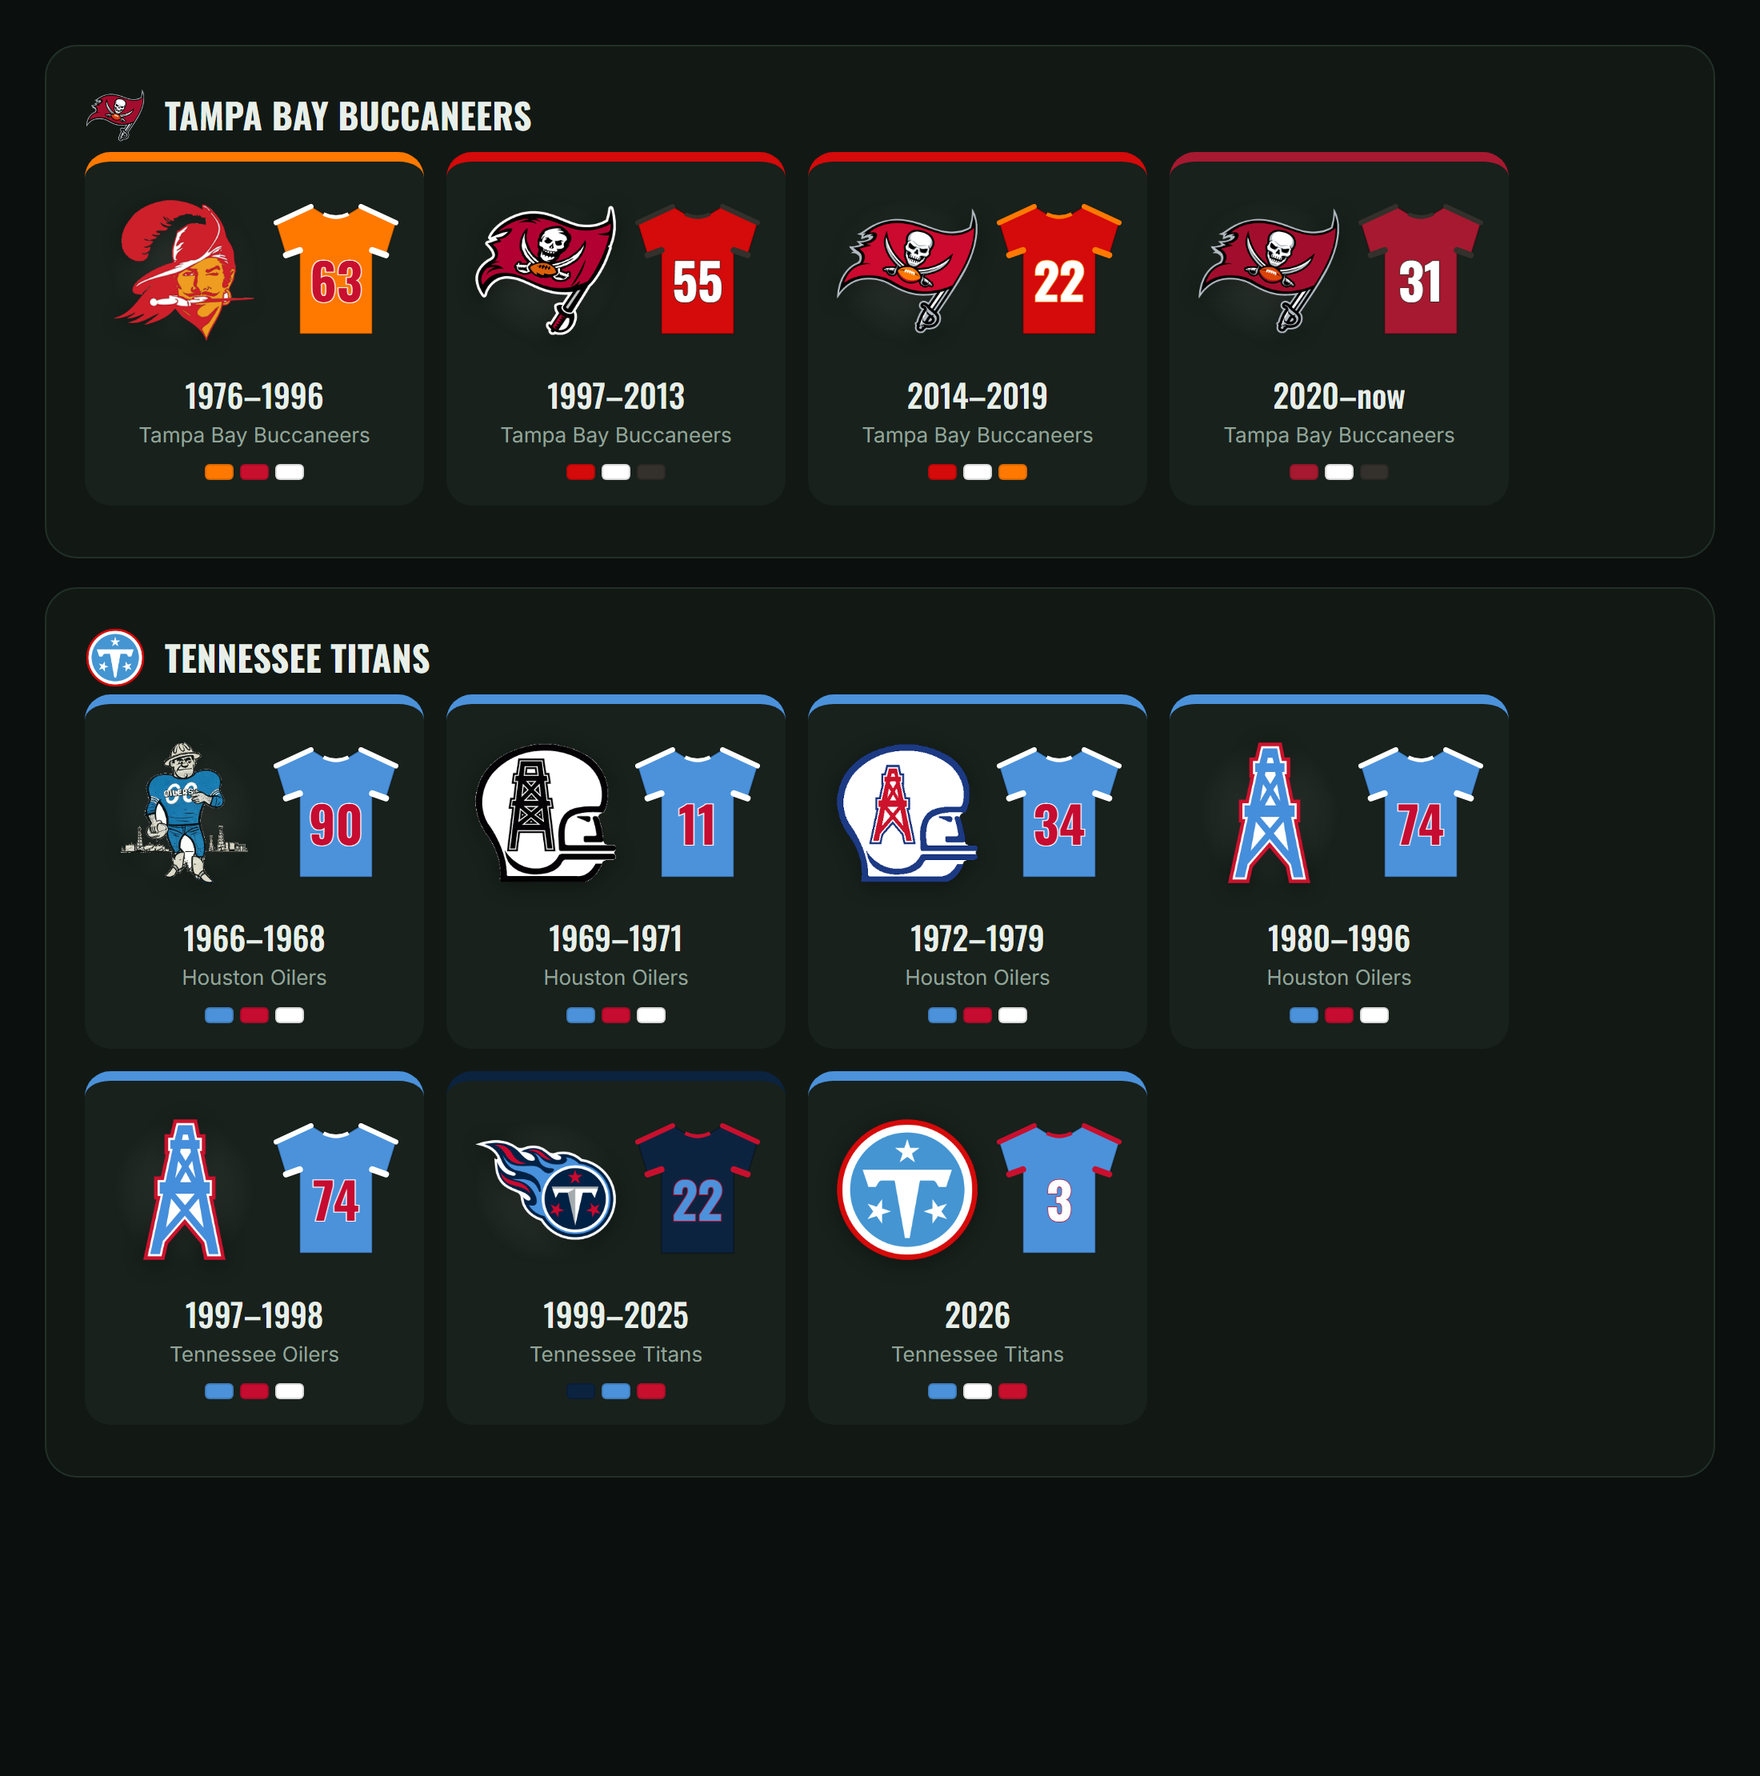
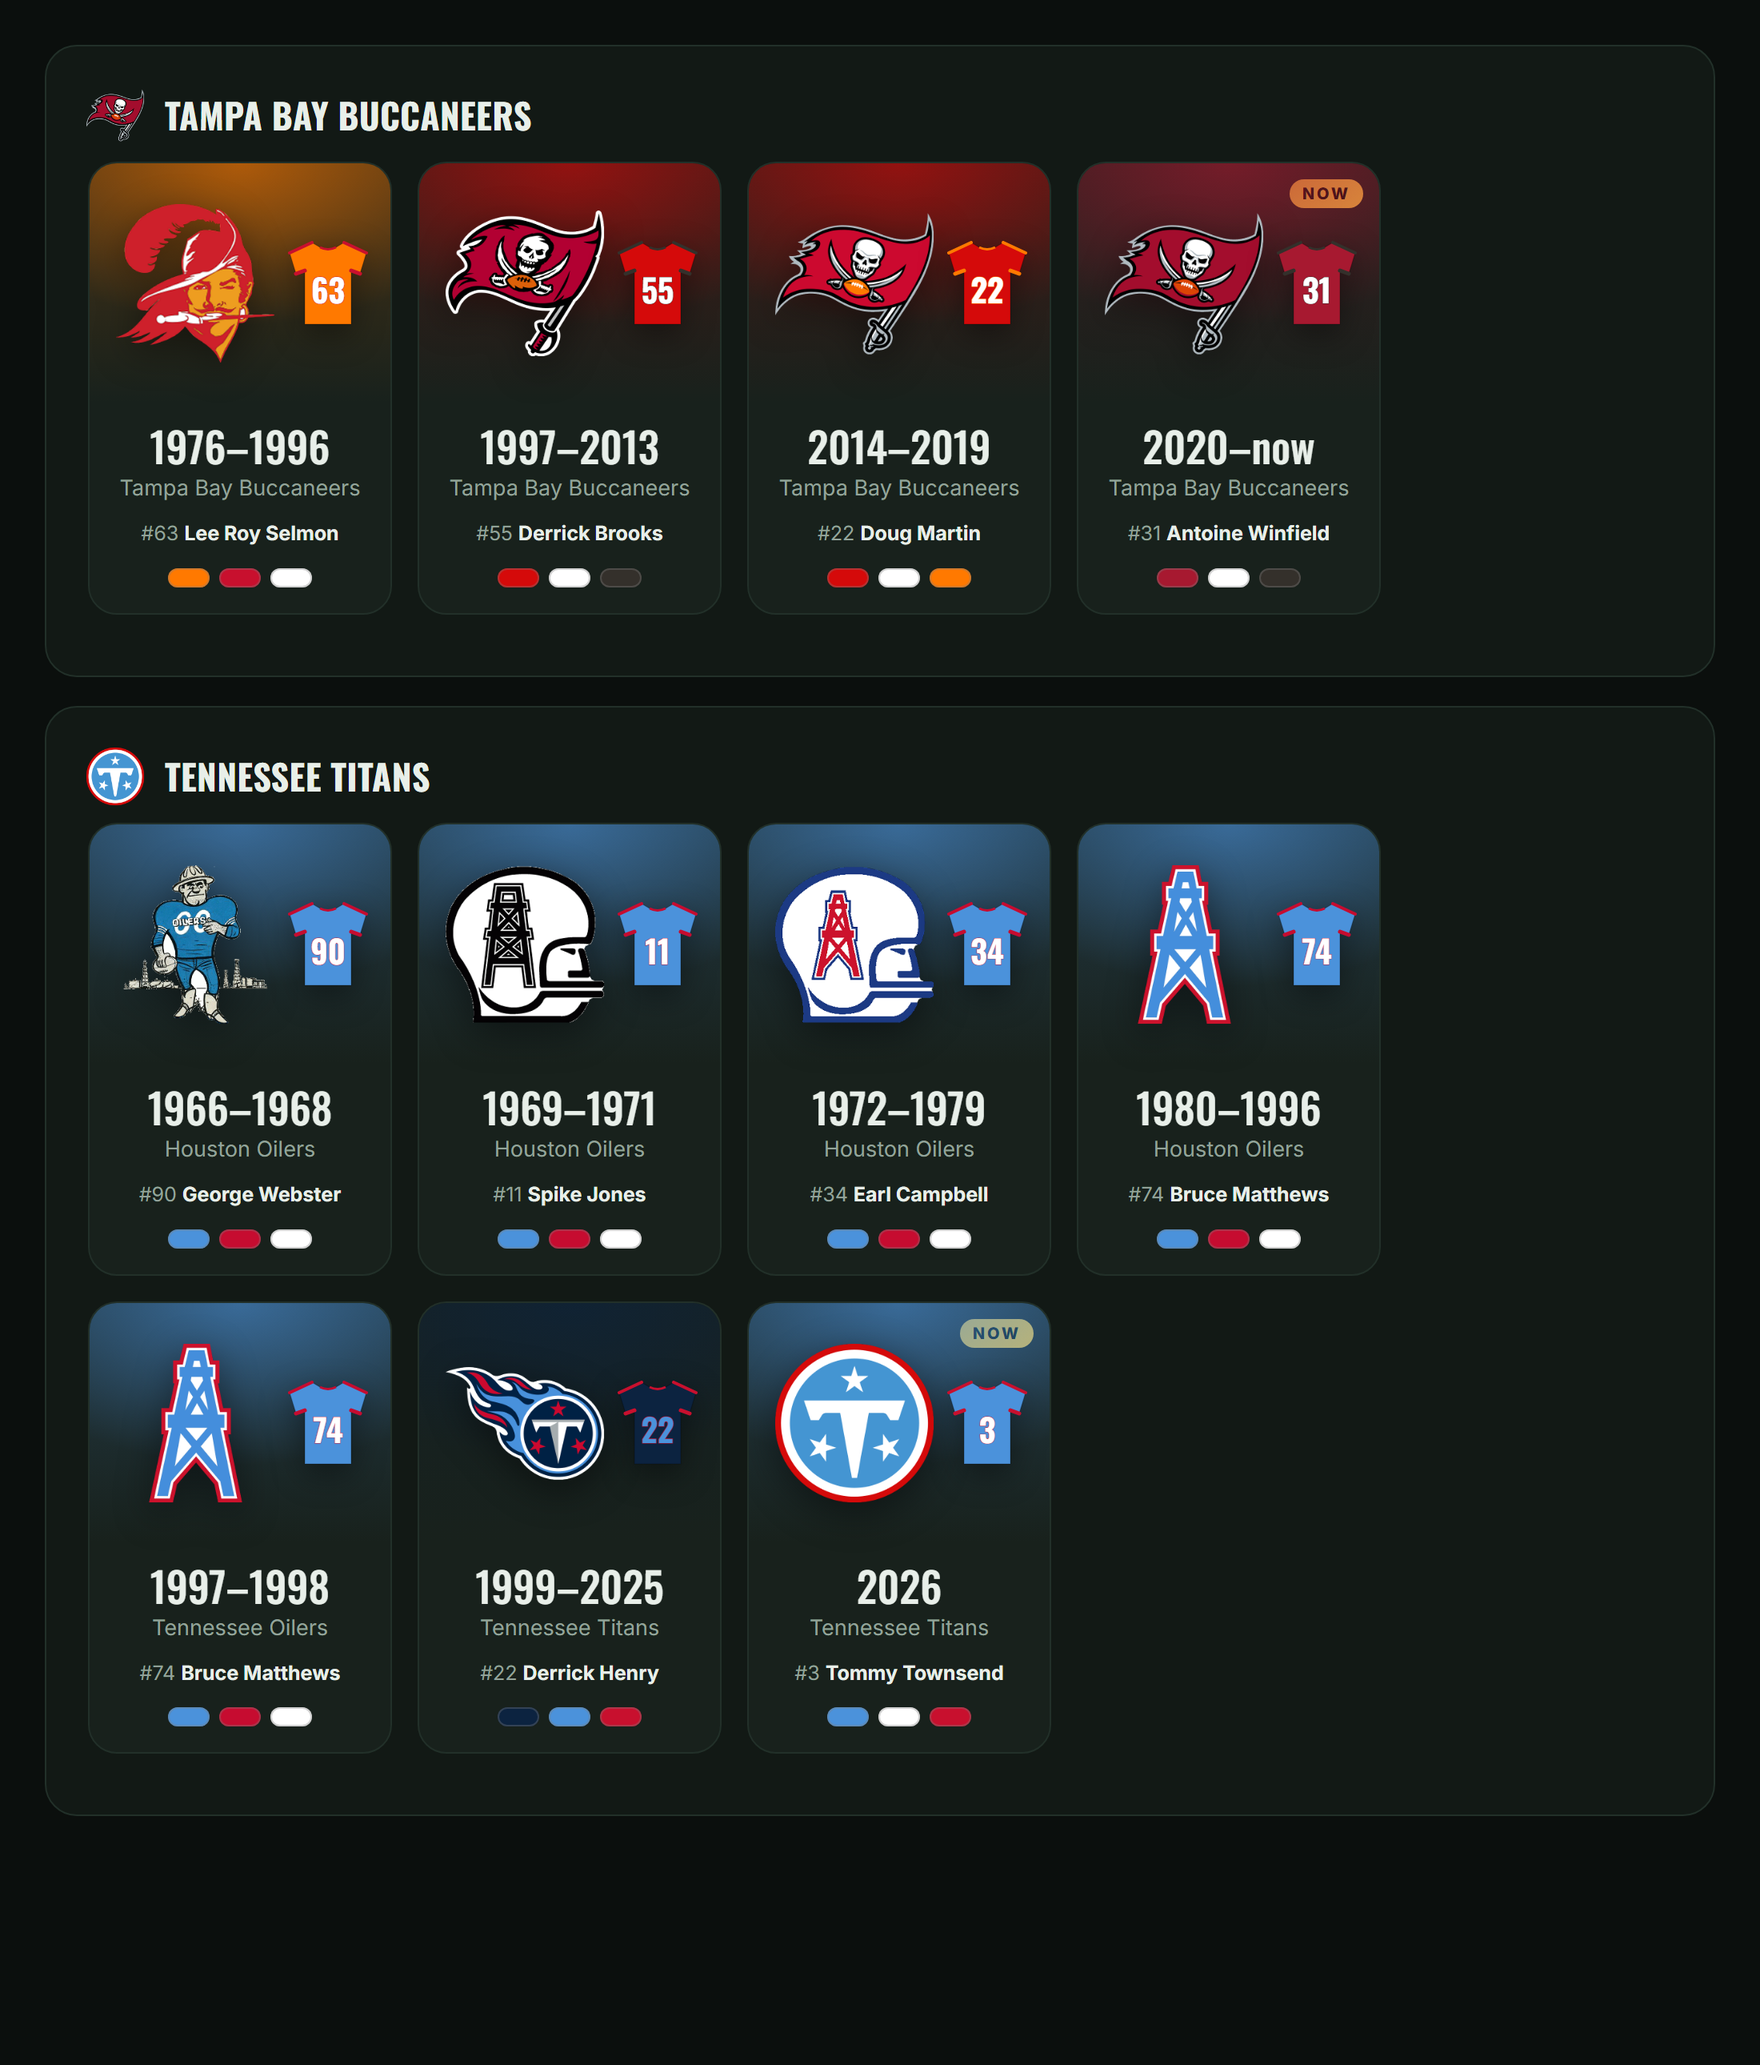
Team pages: fix misaligned uniform cards; redesigned look cards with team-color stage, who wore the number, Now badge; readable jersey numbers

Changed region(s): [[0.0309, 0.3419, 0.8655, 0.8392], [0.0309, 0.0311, 0.8655, 0.3108]]

diff --git a/site/index.html b/site/index.html
@@ -140,14 +140,17 @@ nav .links a.on{color:var(--ink);box-shadow:inset 0 -2px 0 var(--accent)}
 .block .hint{font-size:14px;color:var(--muted);margin:0 0 18px}
 
 /* looks timeline */
-.looks{display:flex;gap:14px;overflow-x:auto;padding-bottom:8px;scroll-snap-type:x mandatory}
-.look{flex:0 0 200px;scroll-snap-align:start;background:var(--soft);border-radius:16px;padding:16px;display:flex;flex-direction:column;align-items:center;text-align:center;border-top:6px solid var(--c)}
-.look .pair{display:flex;align-items:center;justify-content:center;gap:10px;height:104px}
-.look .pair img{width:92px;height:92px;object-fit:contain;background:radial-gradient(circle,rgba(255,255,255,.10),transparent 70%);filter:drop-shadow(0 2px 6px rgba(0,0,0,.35))}
-.look .pair svg{width:78px;height:auto}
-.look .yrs{font-family:Oswald;font-size:20px;margin-top:10px}
-.look .nm{font-size:13px;color:var(--muted);min-height:20px}
-.sw{display:flex;gap:4px;margin-top:8px}.sw i{width:18px;height:10px;border-radius:3px;box-shadow:inset 0 0 0 1px rgba(0,0,0,.15)}
+.looks{display:flex;gap:16px;overflow-x:auto;padding:6px 2px 14px;scroll-snap-type:x mandatory;align-items:stretch}
+.look{flex:0 0 232px;scroll-snap-align:start;background:var(--soft);border:1px solid var(--line);border-radius:18px;overflow:hidden;display:flex;flex-direction:column;text-align:center;position:relative}
+.look .stage{position:relative;height:150px;display:flex;align-items:center;justify-content:center;gap:6px;padding:0 14px;background:radial-gradient(120% 90% at 50% 0%,color-mix(in srgb,var(--c) 55%,transparent),transparent 75%),linear-gradient(180deg,color-mix(in srgb,var(--c) 22%,transparent),transparent)}
+.look .stage img{width:104px;height:104px;object-fit:contain;filter:drop-shadow(0 6px 12px rgba(0,0,0,.45))}
+.look .stage svg{width:84px;height:auto;filter:drop-shadow(0 6px 10px rgba(0,0,0,.4))}
+.look .info{padding:12px 14px 16px;display:flex;flex-direction:column;align-items:center;gap:2px;flex:1}
+.look .yrs{font-family:Oswald;font-size:26px;line-height:1.1}
+.look .nm{font-size:13.5px;color:var(--muted)}
+.look .who{font-size:12.5px;color:var(--muted);margin-top:6px;min-height:18px}.look .who b{color:var(--ink)}
+.look .now{position:absolute;top:10px;right:10px;font:800 10px Inter;letter-spacing:1.5px;text-transform:uppercase;background:#f5c542;color:#05100a;padding:3px 8px;border-radius:999px}
+.sw{display:flex;gap:6px;margin-top:auto;padding-top:10px}.sw i{width:26px;height:12px;border-radius:999px;box-shadow:inset 0 0 0 1px rgba(127,127,127,.35)}
 
 /* seasons chart */
 .chart{position:relative}
@@ -387,7 +390,10 @@ const esc = s => String(s ?? '').replace(/[&<>"]/g, c => ({'&':'&amp;','<':'&lt;
 
 // A jersey in a team's colors: body, numbers, trim.
 function jersey(c, num = '', w = 80) {
-  const [body, numc, trim] = c || ['#555', '#fff', '#999'];
+  let [body, numc, trim] = c || ['#555', '#fff', '#999'];
+  // Numbers must read on the jersey: if the number color is too close to the body, use the trim color instead
+  const lum = h => { const n = parseInt(h.slice(1), 16); return ((n >> 16) * 299 + (n >> 8 & 255) * 587 + (n & 255) * 114) / 1000; };
+  if (Math.abs(lum(body) - lum(numc)) < 90 && Math.abs(lum(body) - lum(trim)) > Math.abs(lum(body) - lum(numc))) [numc, trim] = [trim, numc];
   return `<svg viewBox="0 0 100 106" width="${w}" aria-hidden="true">
     <path d="M30 2 L40 8 Q50 13 60 8 L70 2 L98 15 L90 41 L79 37 L79 104 L21 104 L21 37 L10 41 L2 15 Z" fill="${body}" stroke="rgba(0,0,0,.25)" stroke-width="1.2" stroke-linejoin="round"/>
     <path d="M2 15 L30 2 M70 2 L98 15" stroke="${trim}" stroke-width="4" fill="none" stroke-linecap="round"/>
@@ -507,12 +513,15 @@ function renderTeam(T) {
       <h3>Every look</h3>
       <p class="hint">Logo and jersey for each era. In the game these switch on the real date as you sim.</p>
       <div class="lookwrap"><button class="arr l" aria-label="Earlier looks" onclick="this.parentNode.querySelector('.looks').scrollBy({left:-430,behavior:'smooth'})">‹</button><button class="arr r" aria-label="Later looks" onclick="this.parentNode.querySelector('.looks').scrollBy({left:430,behavior:'smooth'})">›</button><div class="looks">${T.looks.map(l => `
-        <div class="look" style="--c:${l.colors[0]}">
-          <div class="pair">${l.logo ? `<img src="${l.logo}" alt="">` : ''}${jersey(l.colors, num(T, l))}</div>
-          <div class="yrs">${range(l.from, l.to)}</div>
-          <div class="nm">${esc(l.region)} ${esc(l.name)}</div>
-          <div class="sw">${l.colors.map(c => `<i style="background:${c}"></i>`).join('')}</div></div>
-        </div>`).join('')}</div>
+        ${(() => { const k = num(T, l); return `<div class="look" style="--c:${l.colors[0]}">${l.to >= 2026 ? '<span class="now">Now</span>' : ''}
+          <div class="stage">${l.logo ? `<img src="${l.logo}" alt="">` : ''}${jersey(l.colors, k.n)}</div>
+          <div class="info">
+            <div class="yrs">${range(l.from, l.to)}</div>
+            <div class="nm">${esc(l.region)} ${esc(l.name)}</div>
+            <div class="who">${k.who ? `#${esc(k.n)} <b>${esc(k.who)}</b>` : ''}</div>
+            <div class="sw">${l.colors.map(c => `<i style="background:${c}" title="${c}"></i>`).join('')}</div>
+          </div>
+        </div>`; })()}`).join('')}</div></div>
     </div>
 
     <div class="block chart">
@@ -608,10 +617,10 @@ const defaultIdx = T => { const n = T.seasons.length, last = T.seasons[n - 1]; r
 
 // The jersey number to show on a look: the franchise's best player's number in that era.
 function num(T, l) {
-  if (T.tid === 0 && l.from <= 2022 && l.to >= 2004) return '11'; // Larry Fitzgerald's years in Arizona
-  let best = null;
-  for (const p of T.players) for (const x of p.s) if (x[0] >= l.from && x[0] <= l.to && x[4] && (!best || x[1] > best[1])) best = x;
-  return best ? best[4] : '';
+  if (T.tid === 0 && l.from <= 2022 && l.to >= 2004) return { n: '11', who: 'Larry Fitzgerald' }; // Larry's years in Arizona
+  let best = null, who = '';
+  for (const p of T.players) for (const x of p.s) if (x[0] >= l.from && x[0] <= l.to && x[4] && (!best || x[1] > best[1])) { best = x; who = p.n; }
+  return best ? { n: best[4], who } : { n: '', who: '' };
 }
 const statText = x => { if (x[2] === 'OL') return x[3] + ' games'; const out = []; for (let i = 5; i < x.length; i += 2) out.push(`${Number(x[i]).toLocaleString()} ${x[i + 1]}`); return out.join(' · '); };
 
